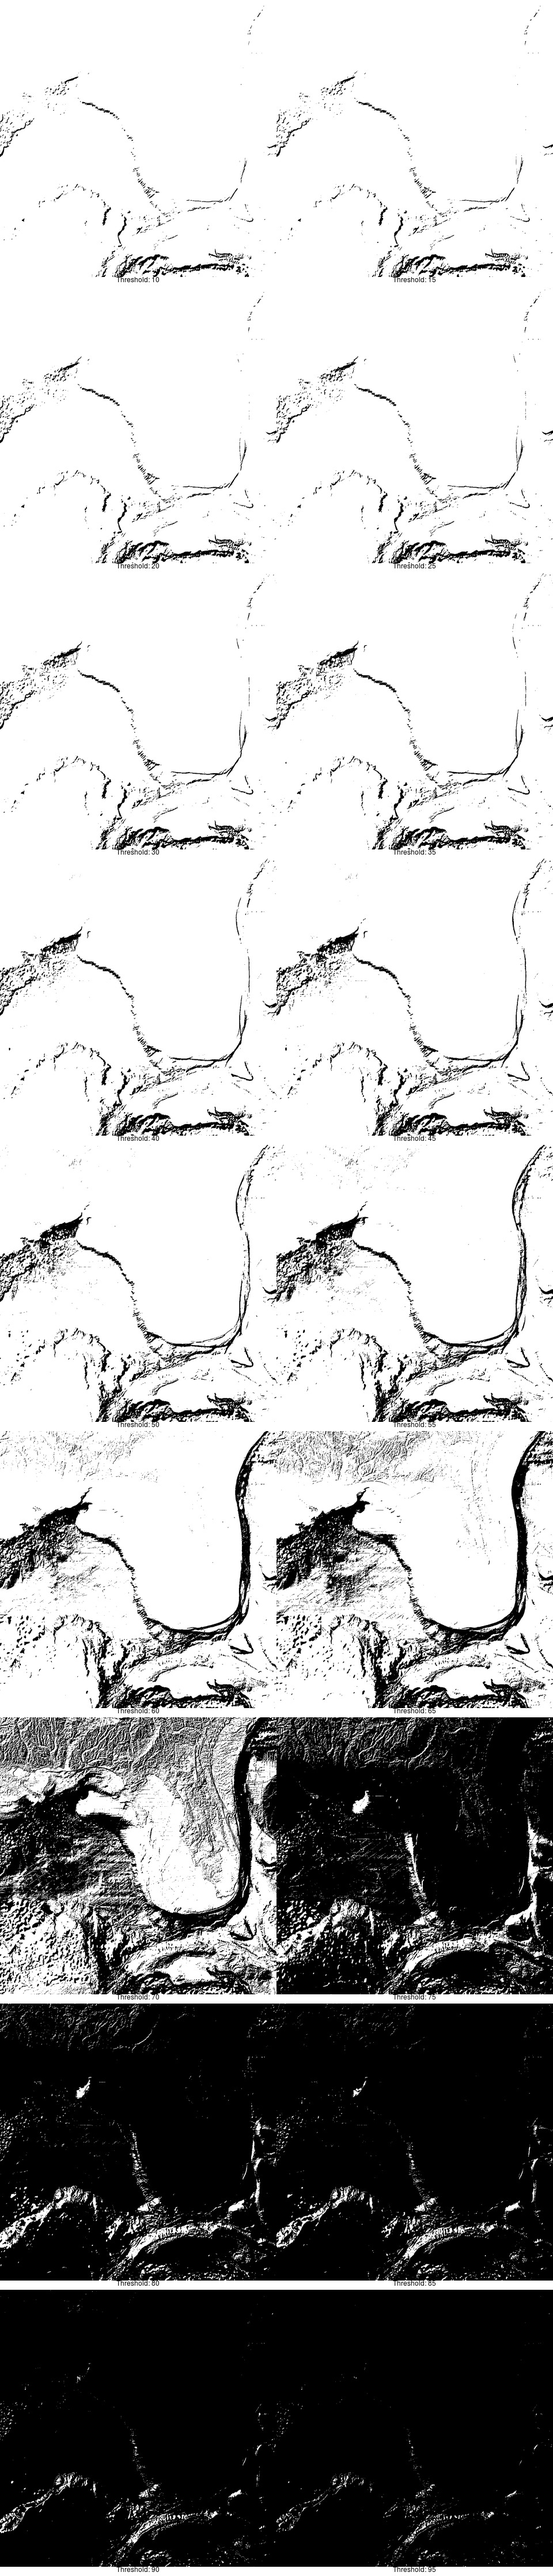
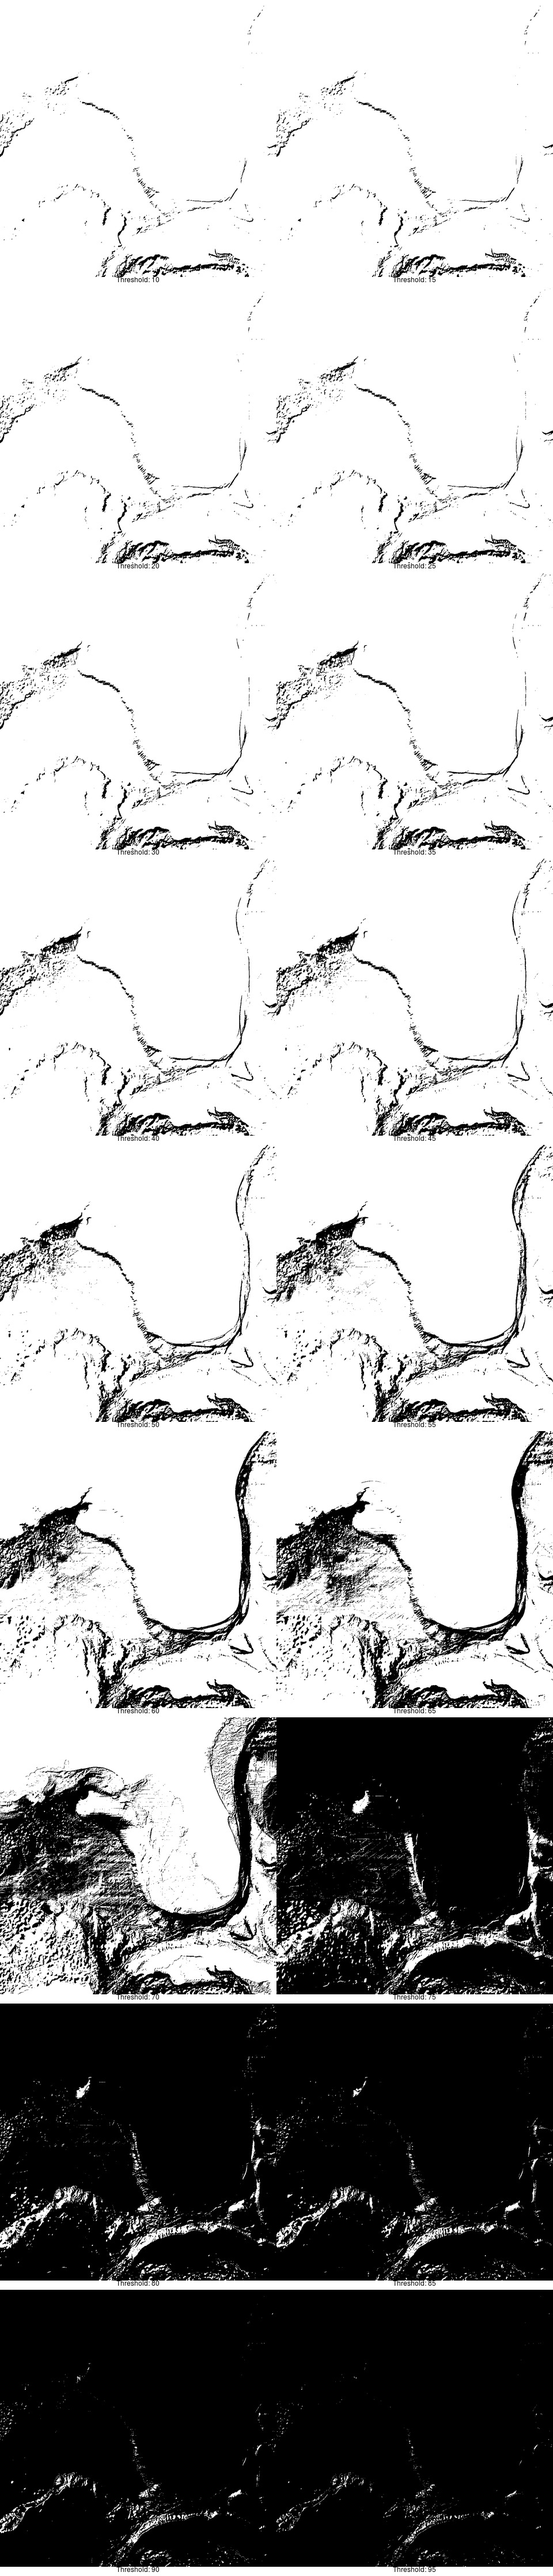
Buildout script, update readme

diff --git a/main.py b/main.py
@@ -1,21 +1,151 @@
+import math
+import os
+import shutil
+import subprocess
+import sys
+import tempfile
+
 import rasterio
 
-def scheduler(filename, tile_size=512):
+
+devnull = open(os.devnull, 'w')
+
+
+def task(file_path, output_dir, col, row, src_width, src_height, clipfile_path=None, zoom=8, vert_exag=20, thresholds=(30, 50, 70, 80), verbosity=1):
+    """
+    - Subset file
+    - Hillshade data
+    - Monochrome data
+    - Polygonize
+    """
+
+    with tempfile.TemporaryDirectory() as tmpdir:
+        overlap = float(2)
+        num_rows = math.pow(2, zoom)
+        width = overlap * src_width / num_rows
+        height = overlap * src_height / num_rows
+        x = (col * width / overlap) - (1/overlap * width)
+        y = (row * height / overlap) - (1/overlap * height)
+
+        # Subset data
+        subset_path = "{tmpdir}/{x}_{y}_subset.tif".format(x='%05d' % x, y='%05d' % y, tmpdir=tmpdir)
+        cmd = "gdal_translate -srcwin {x} {y} {width} {height} -of GTIFF {input} {output}"
+        cmd = cmd.format(x=x, y=y, width=width, height=height, input=file_path, output=subset_path)
+        if verbosity > 1:
+            print(cmd)
+        subprocess.check_call(cmd, shell=True, stdout=devnull, stderr=devnull)
+
+        # Crop data
+        if clipfile_path:
+            clipfile_subset_path = "{tmpdir}/clipfile_subset.shp".format(tmpdir=tmpdir)
+            cmd = "ogr2ogr -f \"ESRI Shapefile\" {clipfile_subset_path} {clipfile_path} -clipsrc {x_min} {y_min} {x_max} {y_max}"
+            cmd = cmd.format(
+                clipfile_subset_path=clipfile_subset_path, clipfile_path=clipfile_path,
+                x_min=x, y_min=y, x_max=(x + width), y_max=(y + height)
+            )
+            if verbosity > 1:
+                print(cmd)
+            subprocess.check_call(cmd, shell=True, stdout=devnull, stderr=devnull)
+            clipped_subset_path = "{tmpdir}/subset_clipped.tif".format(tmpdir=tmpdir)
+            cmd = "gdalwarp -cutline {clipfile_subset_path} {input} {output}"
+            cmd = cmd.format(
+                clipfile_subset_path=clipfile_subset_path,
+                input=subset_path, output=clipped_subset_path
+            )
+            if verbosity > 1:
+                print(cmd)
+            subprocess.check_call(cmd, shell=True, stdout=devnull, stderr=devnull)
+            subset_path = clipped_subset_path
+
+        # Hillshade data
+        hillshade_path = "{}_hillshade_{}.tif".format(subset_path, vert_exag)
+        cmd = "gdaldem hillshade -co compress=lzw -compute_edges -z {vert} {input} {output}"
+        cmd = cmd.format(vert=vert_exag, input=subset_path, output=hillshade_path)
+        if verbosity > 1:
+            print(cmd)
+        subprocess.check_call(cmd, shell=True, stdout=devnull, stderr=devnull)
+
+        # Thresholds
+        threshold_base = "{}_threshold".format(hillshade_path)
+        threshold_path_tmplt = threshold_base + "_threshold_{threshold}.tif"
+        for threshold in thresholds:
+            threshold_path = threshold_path_tmplt.format(threshold=threshold)
+            cmd = "convert {input} -threshold {threshold}% {output}"
+            cmd = cmd.format(input=hillshade_path, output=threshold_path, threshold=threshold)
+            if verbosity > 1:
+                print(cmd)
+            subprocess.check_call(cmd, shell=True, stdout=devnull, stderr=devnull)
+        threshold_paths = " ".join([threshold_path_tmplt.format(threshold=threshold) for threshold in thresholds])
+
+        # Combine thresholds
+        combined_path = "{}_combined.gif".format(hillshade_path)
+        cmd = "convert {threshold_paths} -evaluate-sequence mean {output}"
+        cmd = cmd.format(threshold_paths=threshold_paths, output=combined_path)
+        if verbosity > 1:
+            print(cmd)
+        subprocess.check_call(cmd, shell=True, stdout=devnull, stderr=devnull)
+
+        # Convert
+        combined_tif_path = "{}.tif".format('.'.join(combined_path.split('.')[:-1]))
+        cmd = "convert {input} {output}".format(input=combined_path, output=combined_tif_path)
+        if verbosity > 1:
+            print(cmd)
+        subprocess.check_call(cmd, shell=True, stdout=devnull, stderr=devnull)
+
+        # Re-apply geodata
+        if verbosity > 1:
+            print(cmd)
+        cmd = "listgeo -tfw {}".format(subset_path)
+        subprocess.check_call(cmd, shell=True, stdout=devnull, stderr=devnull)
+        cmd = "mv {input}.tfw {output}.tfw"
+        cmd = cmd.format(
+            input='.'.join(subset_path.split('.')[:-1]),
+            output='.'.join(combined_tif_path.split('.')[:-1])
+        )
+        if verbosity > 1:
+            print(cmd)
+        subprocess.check_call(cmd, shell=True, stdout=devnull, stderr=devnull)
+
+        # Polygonize
+        geojson_path = "{}.geojson".format(combined_tif_path)
+        cmd = "gdal_polygonize.py {input} -f GeoJSON {output}"
+        cmd = cmd.format(input=combined_tif_path, output=geojson_path)
+        if verbosity > 1:
+            print(cmd)
+        subprocess.check_call(cmd, shell=True, stdout=devnull, stderr=devnull)
+
+        # Mv to output
+        out_dir = "{base}/{z}/{x}".format(base=output_dir, z=zoom, x=col)
+        os.makedirs(out_dir, exist_ok=True)
+        cmd = "mv {input} {out_dir}/{y}.geojson".format(input=geojson_path, out_dir=out_dir, y=row)
+        if verbosity > 1:
+            print(cmd)
+        subprocess.check_call(cmd, shell=True, stdout=devnull, stderr=devnull)
+
+        print('.', end='\n' if verbosity > 1 else '.')
+        sys.stdout.flush()
+
+
+def scheduler(file_path, output_dir, clipfile_path=None, tile_size=512):
     with rasterio.drivers():
-        with rasterio.open(filename) as src:
+        with rasterio.open(file_path) as src:
             width = src.width
             height = src.height
 
-    for row in range(int(height / tile_size) + 1):
-        for col in range(int(width / tile_size) + 1):
-            data = dict(
-                col=col,
-                row=row,
-                x=(col * width),
-                y=(row * height),
-            )
-            print("col:{col} x row:{row}, ({x}, {y})".format(**data))
-        
+    zoom = 8
+    for z in range(zoom, zoom+1):
+        num_rows = int(math.pow(2, z))
+        for col in range(0, num_rows):
+            for row in range(0, num_rows):
+                kwargs = dict(
+                    file_path=file_path, output_dir=output_dir,
+                    clipfile_path=clipfile_path,
+                    col=col, row=row, zoom=z,
+                    src_width=width, src_height=height,
+                    vert_exag=20, thresholds=(30, 50, 70, 80)
+                )
+                task(**kwargs)
+
 
 if __name__ == '__main__':
 
@@ -27,14 +157,15 @@ if __name__ == '__main__':
         'input',
         metavar='INPUT',
         help="Input file name")
-    # parser.add_argument(
-    #     'output',
-    #     metavar='OUTPUT',
-    #     help="Output file name")
-    # parser.add_argument(
-    #     '--async',
-    #     action='store_true',
-    #     help="Run with a pool of worker threads")
-    args = parser.parse_args()
+    parser.add_argument(
+        '--clipfile',
+        metavar='CLIPFILE',
+        help="Clipping Shapefile")
+    parser.add_argument(
+        '--outdir',
+        metavar='OUTPUT_DIR',
+        default='./out',
+        help="Output Directory")
 
-    scheduler(args.input)
+    args = parser.parse_args()
+    scheduler(args.input, args.outdir, args.clipfile)

diff --git a/readme.md b/readme.md
@@ -54,6 +54,72 @@ If the file were drastically larger, it might make sense to reproject after we s
 
 ### 2. Downsample
 
+From GDAL info, we can see that our image is `29136` x `29136`:
+
+```
+$ gdalinfo data/GEBCO_2014_1D_3857.tif
+Driver: GTiff/GeoTIFF
+Files: data/GEBCO_2014_1D_3857.tif
+Size is 29136, 29136
+Coordinate System is:
+PROJCS["WGS 84 / Pseudo-Mercator",
+    GEOGCS["WGS 84",
+        DATUM["WGS_1984",
+            SPHEROID["WGS 84",6378137,298.257223563,
+                AUTHORITY["EPSG","7030"]],
+            AUTHORITY["EPSG","6326"]],
+        PRIMEM["Greenwich",0],
+        UNIT["degree",0.0174532925199433],
+        AUTHORITY["EPSG","4326"]],
+    PROJECTION["Mercator_1SP"],
+    PARAMETER["central_meridian",0],
+    PARAMETER["scale_factor",1],
+    PARAMETER["false_easting",0],
+    PARAMETER["false_northing",0],
+    UNIT["metre",1,
+        AUTHORITY["EPSG","9001"]],
+    EXTENSION["PROJ4","+proj=merc +a=6378137 +b=6378137 +lat_ts=0.0 +lon_0=0.0 +x_0=0.0 +y_0=0 +k=1.0 +units=m +nadgrids=@null +wktext  +no_defs"],
+    AUTHORITY["EPSG","3857"]]
+Origin = (-20037508.339999999850988,20037508.339999999850988)
+Pixel Size = (1375.446755903349867,-1375.446755903349867)
+Metadata:
+  AREA_OR_POINT=Area
+Image Structure Metadata:
+  INTERLEAVE=BAND
+Corner Coordinates:
+Upper Left  (-20037508.340,20037508.340) (180d 0' 0.00"W, 85d 3' 4.06"N)
+Lower Left  (-20037508.340,-20037508.340) (180d 0' 0.00"W, 85d 3' 4.06"S)
+Upper Right (20037508.340,20037508.340) (180d 0' 0.00"E, 85d 3' 4.06"N)
+Lower Right (20037508.340,-20037508.340) (180d 0' 0.00"E, 85d 3' 4.06"S)
+Center      (   0.0000000,   0.0000000) (  0d 0' 0.01"E,  0d 0' 0.01"N)
+Band 1 Block=29136x1 Type=Int16, ColorInterp=Gray
+```
+
+Looking at the following table, we can see that our geotiff is just slightly smaller than the global width of zoom level 7:
+
+Zoom | Global Width (px) | # Tiles Wide
+---: | :---: | :---
+0 | 256 | 1
+1 | 512 | 2
+2 | 1024 | 4
+3 | 2048 | 8
+4 | 4096 | 16
+5 | 8192 | 32
+6 | 16384 | 64
+7 | 32768 | 128
+8 | 65536 | 256
+9 | 131072 | 512
+10 | 262144 | 1024
+11 | 524288 | 2048
+12 | 1048576 | 4096
+13 | 2097152 | 8192
+14 | 4194304 | 16384
+15 | 8388608 | 32768
+16 | 16777216 | 65536
+17 | 33554432 | 131072
+18 | 67108864 | 262144
+19 | 134217728 | 524288
+
 
 
 ### 3. Subset Data
@@ -61,10 +127,20 @@ If the file were drastically larger, it might make sense to reproject after we s
 To break the dataset up into separate 1024px x 1024px slices to be processed by different workers, we'll need to subset the data. This is a pretty straightforward operation:
 
 ```bash
-gdal_translate -srcwin 7200 11800 1024 1024 -of GTIFF data/GEBCO_2014_1D_3857.tif output/subset.tif
+gdal_translate -srcwin 7200 11800 1024 1024 -of GTIFF data/GEBCO_2014_1D_3857_cropped.tif output/subset.tif
 ```
 
-For the purpose of dialing in other commands, we'll experiment with a slice of the Florida / Gulf of Mexico area. This area provides a variety of surfacetypes to visualize.
+For the purpose of dialing in other commands, we'll experiment with a slice of the Florida / Gulf of Mexico area. This area provides a variety of surface types to visualize.
+
+#### Remove terrain data
+
+Mapbox already offers a great set of terrain data. We're not looking to replace that, only to add missing ocean data. To remove the terrain data from the GEBCO dataset, we'll clip it to only contain ocean data. We'll use the [Generalized Coastline dataset](http://openstreetmapdata.com/data/generalized-coastlines) from OSM to achieve this. The OSM Generalized Coastline dataset only goes up to zoom level 8, which actually appears about right for the resolution of the GEBCO 30 arc-second grid. If we were using higher-resolution data, something like the [Water Polygon dataset](http://openstreetmapdata.com/data/water-polygons) would likely be a better fit.
+
+Crop shapefile (takes ~18seconds):
+```bash
+ogr2ogr -f "ESRI Shapefile" output/cropped_coastline.shp data/water-polygons-generalized-3857/water_polygons_z8.shp -clipsrc 7200 11800 8224 12824
+gdalwarp -cutline output/cropped_coastline.shp output/subset.tif output/subset_cropped.tif
+```
 
 ### 4. Hillshade
 
@@ -116,7 +192,7 @@ You're going to want to produce ~4 monochromatic layers representing varying dep
 
 ``` bash
 # Set chosen hillshade value
-hillshade_val=25;
+hillshade_val=20;
 
 # Generate monochrome values
 monochrome () {
@@ -151,13 +227,14 @@ I started with an equally distributed range of thresholds (`20 40 60 80`), and f
 To get a visualization of the output, merge the images into a single image:
 
 ``` bash
-convert output/subset.tif_hillshade_25.tif_monochrome_30.tif \
-        output/subset.tif_hillshade_25.tif_monochrome_50.tif \
-        output/subset.tif_hillshade_25.tif_monochrome_70.tif \
-        output/subset.tif_hillshade_25.tif_monochrome_80.tif \
+hillshade_val=20;
+convert output/subset.tif_hillshade_${hillshade_val}.tif_monochrome_30.tif \
+        output/subset.tif_hillshade_${hillshade_val}.tif_monochrome_50.tif \
+        output/subset.tif_hillshade_${hillshade_val}.tif_monochrome_70.tif \
+        output/subset.tif_hillshade_${hillshade_val}.tif_monochrome_80.tif \
         -evaluate-sequence mean \
-        imgs/subset.tif_hillshade_monochrome_combined.gif \
-&& open imgs/subset.tif_hillshade_monochrome_combined.gif
+        output/subset.tif_hillshade_monochrome_combined.gif
+open output/subset.tif_hillshade_monochrome_combined.gif
 ```
 
 ![merged monochrome](imgs/subset.tif_hillshade_monochrome_combined.gif)
@@ -166,19 +243,14 @@ Oddly, this command failed when attempting to create a TIFF. Instead, I created 
 
 ![Artifacts](imgs/artifact_montage.png)
 
-
-This can then be converted to TIFF via:
-
-``` bash
-convert subset.tif_hillshade_monochrome_combined.gif subset.tif_hillshade_monochrome_combined.tif
-```
-
 #### 5c. Re-apply geodata
 
 Since ImageMagick stripped the imagery of its geospatial attributes, we'll need to reapply them somehow. Luckily, GDAL knows to look for a matching .tfw if it sees a TIFF that isn’t internally georeferenced. Since we haven't actually changed any spatial information regarding the imagery, we can take the spatial information from the original `subset.tiff` and name it to match the new `subset.tif_hillshade_monochrome_combined.tfw`:
 
 ``` bash
-listgeo -tfw subset.tif && mv subset.tfw subset.tif_hillshade_monochrome_combined.tfw
+listgeo -tfw output/subset.tif
+mv output/subset.tfw output/subset.tif_hillshade_monochrome_combined.tfw
+gdal_translate output/subset.tif_hillshade_monochrome_combined.gif output/subset.tif_hillshade_monochrome_combined.tif -a_srs EPSG:3857
 ```
 
 
@@ -187,7 +259,7 @@ listgeo -tfw subset.tif && mv subset.tfw subset.tif_hillshade_monochrome_combine
 Simplify to remove pixelization:
 
 ``` bash
-gdal_polygonize.py subset.tif_hillshade_monochrome_combined.tif -f GeoJSON subset.tif_hillshade_monochrome_combined.tif_polygons.geojson
+gdal_polygonize.py output/subset.tif_hillshade_monochrome_combined.tif -f GeoJSON output/subset.tif_hillshade_monochrome_combined.tif_polygons.geojson
 ```
 
 ![Polygonized Data viewed in QGIS](imgs/polygonized.png)
